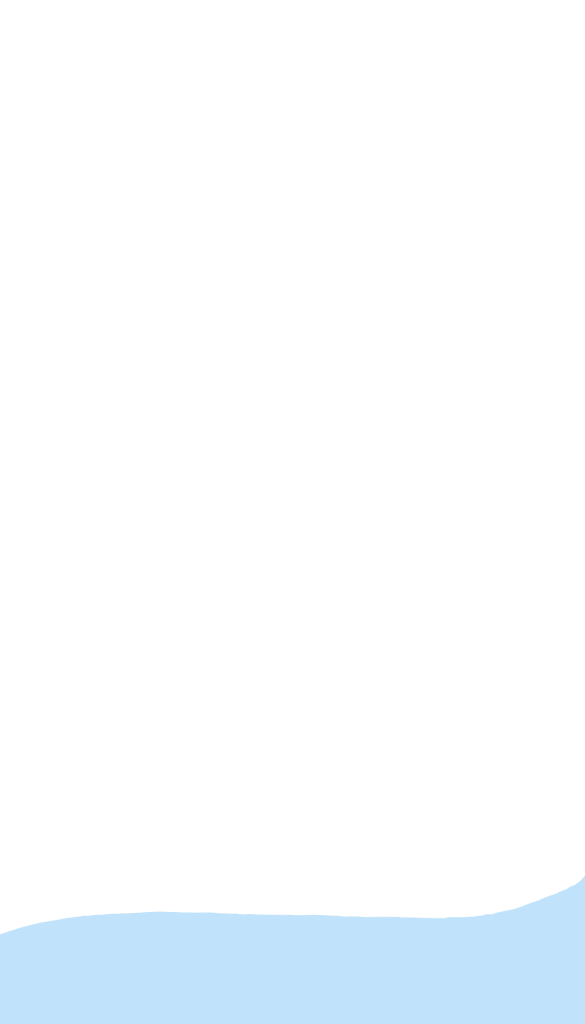
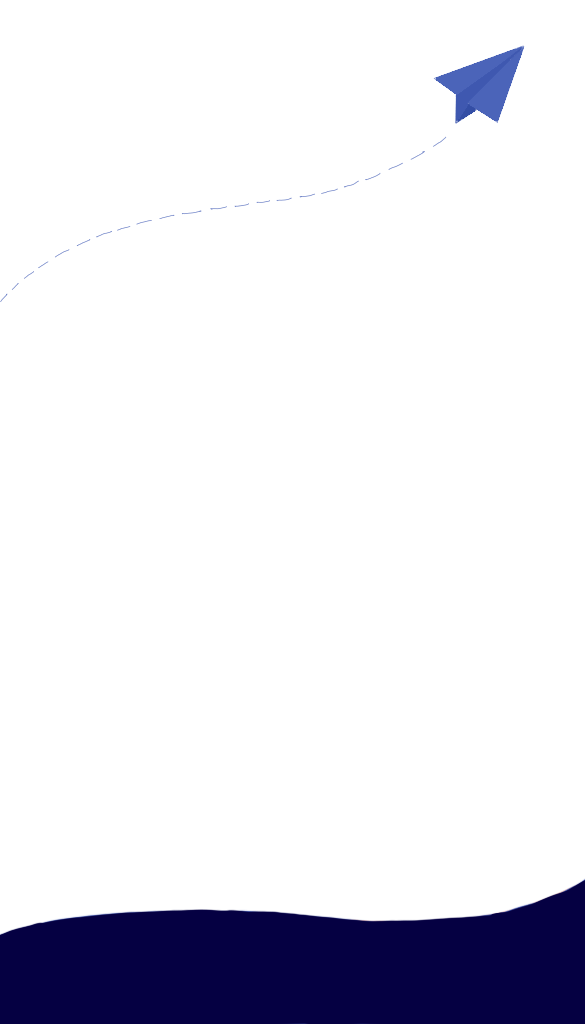
[UPDATE] login page

Changed region(s): [[0.0, 0.8438, 1.0, 1.0], [0.7385, 0.0312, 0.8923, 0.125]]

diff --git a/src/Pages/Login.js b/src/Pages/Login.js
@@ -1,9 +1,9 @@
 import React from 'react'
 import styled from 'styled-components'
 import axios from 'axios'
-import {Redirect} from 'react-router-dom'
+import { Redirect } from 'react-router-dom'
 
-import {ButtonLogin} from '../Components/Login/Button'
+import { ButtonLogin } from '../Components/Login/Button'
 
 const Page = styled.div`
     height: 100vh;
@@ -23,11 +23,11 @@ const Content = styled.div`
     }
 `
 const ImageContent = styled.img`
-    height: 100vh;
+    height: 80vh;
     width: auto;
     @media screen and (max-width 1200px) {
         height: auto;
-        width: 100%;
+        width: 80%;
     }
 `
 
@@ -50,22 +50,24 @@ class LoginPage extends React.Component {
                 let data = new FormData()
                 data.append("code", new URLSearchParams(this.props.location.search).get("code"))
                 await axios.post(`${process.env.REACT_APP_BE_PATH}/linelogin`, data)
-                .then(async(res) => {
-                    localStorage.setItem("JWT", res.data)
-                    await this.setState({ 
-                        login: true 
-                    })
-                    this.props.onLoading(false)
-                })
-                .catch(async err => {
-                    if (err.response) {
+                    .then(async (res) => {
+                        localStorage.setItem("JWT", res.data)
                         await this.setState({
-                            userid: err.response.data,
-                            register: true
+                            login: true
                         })
                         this.props.onLoading(false)
-                    }
-                })
+                    })
+                    .catch(async err => {
+                        if (err.response) {
+                            await this.setState({
+                                userid: err.response.data,
+                                register: true
+                            })
+                            this.props.onLoading(false)
+                        }
+                    })
+            } else {
+                this.props.onLoading(false)
             }
         }
     }
@@ -80,13 +82,13 @@ class LoginPage extends React.Component {
             <div className="col-12">
                 {new URLSearchParams(this.props.location.search).get("code") ? "" :
                     <div className='row'>
-                        <div className='col-7 d-none d-sm-block text-center'>
-                            <ImageContent src="image/pic news.png" alt="pic news" />
+                        <div className='col-8 d-none d-sm-block text-center pt-5'>
+                            <ImageContent src="image/pic-regis 1.png" alt="pic news" />
                         </div>
-                        <Page className="col-12 col-sm-5">
+                        <Page className="col-12 col-sm-4">
                             <Content className="col-10 p-0">
                                 <div className="col-8 p-0 mx-auto d-sm-none">
-                                    <img src="image/pic news.png" alt="pic news" width="100%" />
+                                    <img src="image/pic-regis 1.png" alt="pic news" width="100%" />
                                 </div>
                                 <h3 className="text-center"><b>SIGN IN</b></h3>
                                 <div className="col-10 p-0 mx-auto">

diff --git a/src/Components/Login/Button.js b/src/Components/Login/Button.js
@@ -6,7 +6,7 @@ const Button = styled.button`
   padding:8px;
   border-radius:30px;
   border:none;
-  background-color:#0095FF;
+  background-color:#050042;
   color:white;
   font-size:20px;
 `;
